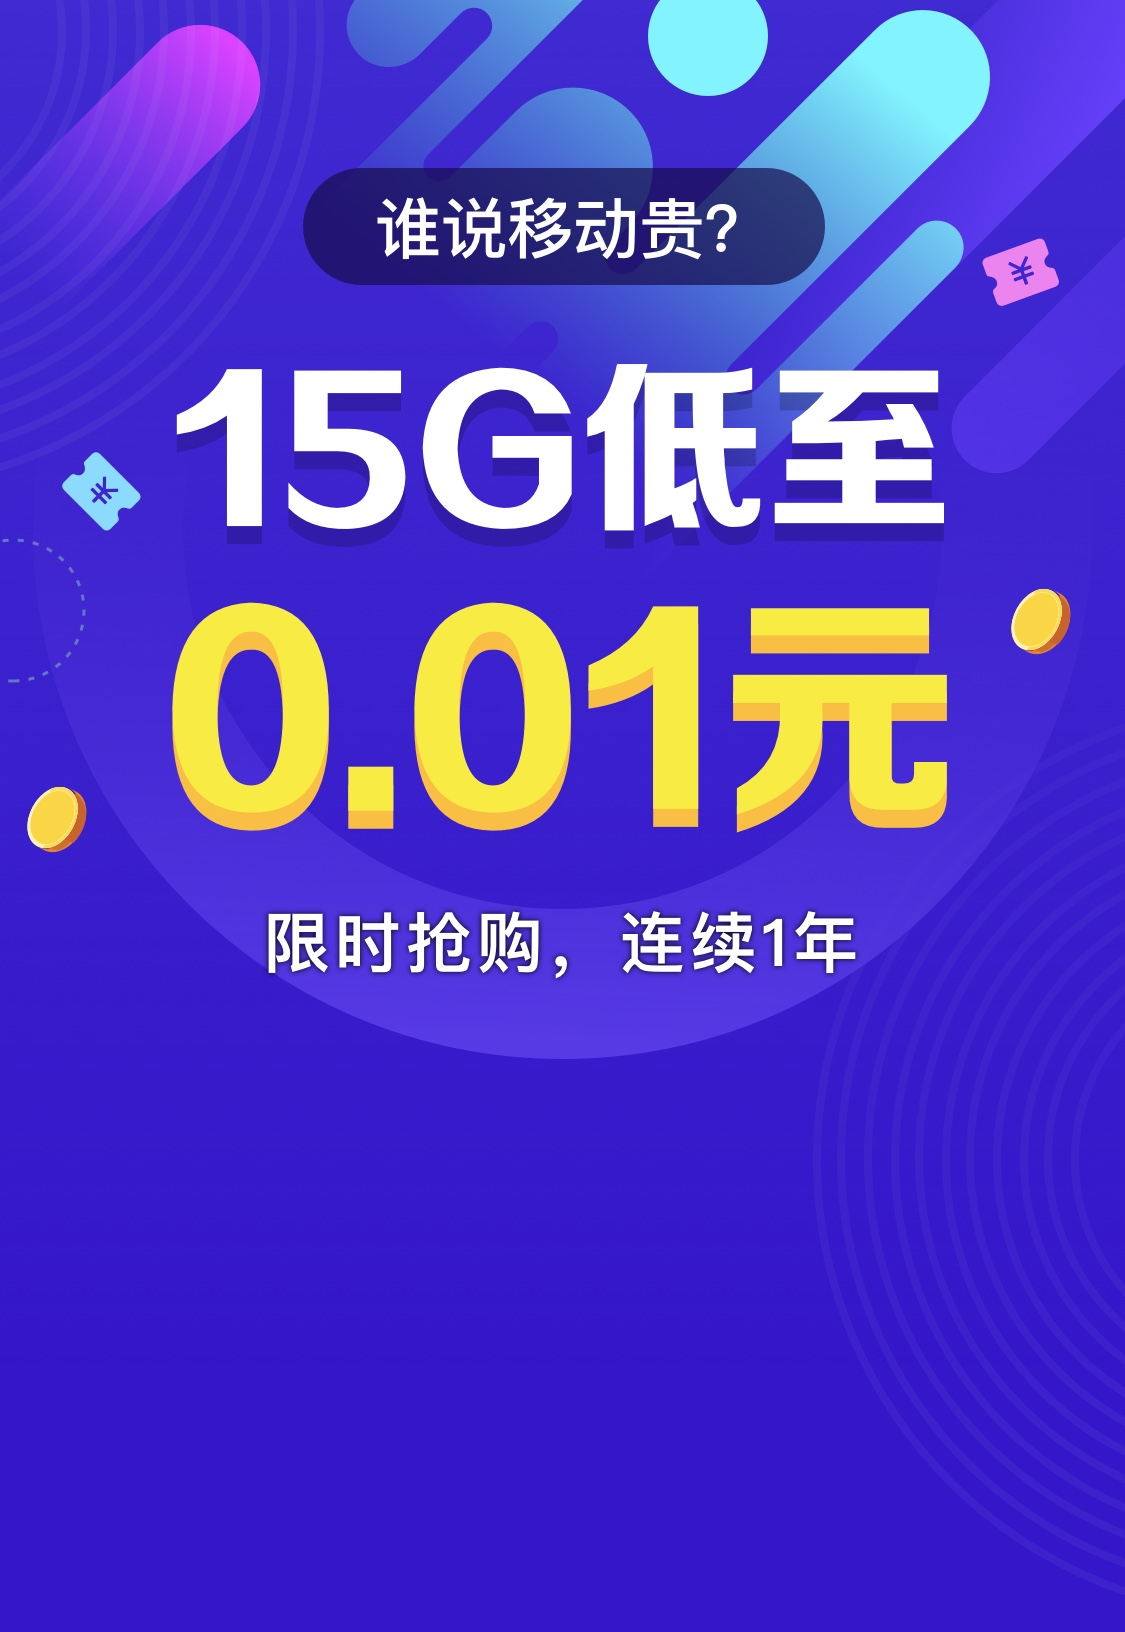
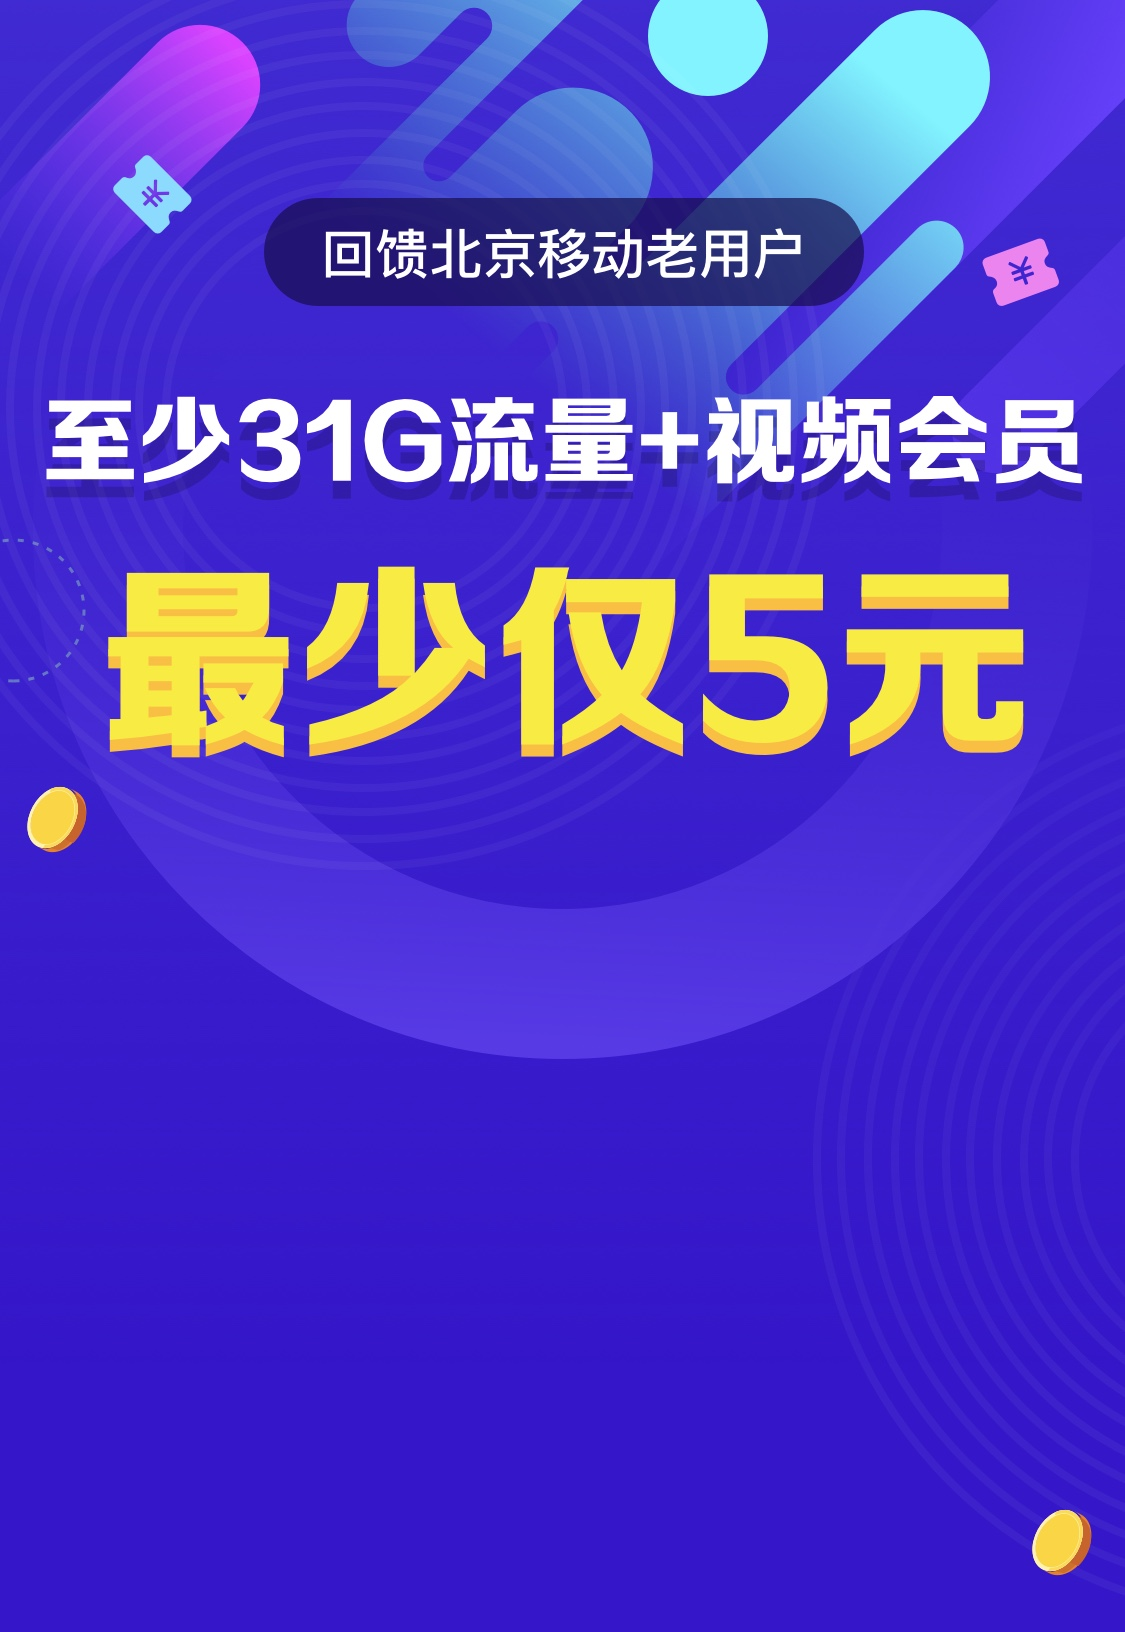
update bg

diff --git a/20200618/dist/css/index.min.css b/20200618/dist/css/index.min.css
@@ -1,1 +1,1 @@
-*{margin:0;padding:0}body{max-width:16rem;background-color:#3517c9;color:#fff;font-size:24px}#app,body{height:100%}#app{width:100%;margin:0 auto}#msg-puop{width:60%;height:2.13333rem;font-size:.59733rem;font-variant:tabular-nums;line-height:2.13333rem;text-align:center;position:fixed;top:0;left:0;right:0;bottom:0;margin:auto;z-index:1010;pointer-events:none;background-color:rgba(0,0,0,.5);border-radius:.17067rem;display:none}.top{width:100%;height:23.21067rem;background:url(../img/part1.jpg) no-repeat;background-size:100% auto}.top .form-warper{width:100%;padding-top:15.31733rem}.top .form-warper .form-item{width:13.61067rem;margin:.64rem auto;display:flex;align-items:center;justify-content:center}.top .form-warper .form-item input{width:100%;height:1.70667rem;border:0;border-radius:.128rem;background-color:#fff;font-size:.512rem;padding:.21333rem;outline:none}.top .form-warper .form-subitem{border-radius:.128rem;background-color:#fff}.top .form-warper .form-subitem .get-code{width:5.12rem;padding:0 .42667rem;font-size:.512rem;color:#4858dc;height:2.13329rem;line-height:2.13333rem;text-align:center}.top .form-warper .btn-sbumit{display:block;width:14.42133rem;height:2.432rem;margin:0 auto;border:0;background:none;outline:none}.bottom{width:100%;margin-top:2.56rem;background:url(../img/botmbg.png) no-repeat left 3.41333rem;background-size:100%}.bottom .head{width:13.61067rem;margin:0 auto;display:flex;align-items:center;justify-content:center}.bottom .head>:first-child,.bottom .head>:nth-child(3){width:1.77493rem;height:1.18187rem}.bottom .head>:nth-child(2){width:6.0416rem;text-align:center;font-size:.98133rem;color:#fff;letter-spacing:0;text-shadow:0 2px 2px rgba(0,0,0,.5)}.bottom .detial{width:13.824rem;margin:.85333rem auto;font-size:.512rem;background:#250d9b 100%;box-shadow:inset 0 0 3px 0 rgba(0,0,0,.5);border-radius:5px;color:#efefef}.bottom .detial ol{padding:.64rem}.bottom .detial ol li{padding:.21333rem;margin-left:.34133rem}.bottom .detial p{padding:0 .512rem .85333rem}.modal{width:100%;height:100%;position:fixed;top:0;left:0;z-index:99;background-color:rgba(0,0,0,.5);display:none}.modal-wrapper{position:absolute;right:0;left:0;top:0;bottom:0;margin:8.53333rem auto;width:13.824rem;height:4.26667rem}.modal .close{width:1.28rem;position:absolute;top:.21333rem;right:.21333rem}.modal .close-btn{width:inherit;height:1.28rem;background:url(../img/close-btn.svg) no-repeat;background-size:100%}.modal .close-line{width:1px;height:3.84rem;background-color:#fff;position:absolute;left:50%}.modal-head{height:1.70667rem;background-color:#3517c9;border-top-left-radius:.17067rem;border-top-right-radius:.17067rem}.modal-head .title{width:100%;display:inline-block;text-align:center;line-height:1.70667rem;font-size:.85333rem}.modal-body{min-height:7.68rem;background-color:#fff;border-bottom-left-radius:.17067rem;border-bottom-right-radius:.17067rem;color:#666;padding:.85333rem .85333rem .42667rem;line-height:.93867rem;font-size:.59733rem}.modal-body>p{padding:.21333rem}.modal-body>p>span{color:#444;font-weight:700}.modal-body .foot{margin-top:.42667rem;text-align:right}.modal-body .foot>button{border:0;outline:none;display:inline-block;width:3.41333rem;height:1.36533rem;color:#fff;background-color:#3517c9;font-size:.59733rem;border-radius:.17067rem}
+*{margin:0;padding:0}body{max-width:16rem;background-color:#3517c9;color:#fff;font-size:24px}#app,body{height:100%}#app{width:100%;margin:0 auto}#msg-puop{width:60%;height:2.13333rem;font-size:.59733rem;font-variant:tabular-nums;line-height:2.13333rem;text-align:center;position:fixed;top:0;left:0;right:0;bottom:0;margin:auto;z-index:1010;pointer-events:none;background-color:rgba(0,0,0,.5);border-radius:.17067rem;display:none}.top{width:100%;height:23.21067rem;background:url(../img/part1.jpg) no-repeat;background-size:100% auto}.top .form-warper{width:100%;padding-top:15.31733rem}.top .form-warper .form-item{width:13.61067rem;margin:.64rem auto;display:flex;align-items:center;justify-content:center}.top .form-warper .form-item input{width:100%;height:1.70667rem;border:0;border-radius:.128rem;background-color:#fff;font-size:.512rem;padding:.21333rem;outline:none}.top .form-warper .form-subitem{border-radius:.128rem;background-color:#fff}.top .form-warper .form-subitem .get-code{width:5.12rem;padding:0 .42667rem;font-size:.512rem;color:#4858dc;height:2.13329rem;line-height:2.13333rem;text-align:center}.top .form-warper .btn-sbumit{display:block;width:14.42133rem;height:2.432rem;margin:0 auto;border:0;background:none;outline:none}.bottom{width:100%;margin-top:2.56rem;background:url(../img/botmbg.png) no-repeat left 3.41333rem;background-size:100%}.bottom .head{width:13.61067rem;margin:0 auto;display:flex;align-items:center;justify-content:center}.bottom .head>:first-child,.bottom .head>:nth-child(3){width:1.77493rem;height:1.18187rem}.bottom .head>:nth-child(2){width:6.0416rem;text-align:center;font-size:.98133rem;color:#fff;letter-spacing:0;text-shadow:0 2px 2px rgba(0,0,0,.5)}.bottom .detial{width:13.824rem;margin:.85333rem auto;font-size:.512rem;background:#250d9b 100%;box-shadow:inset 0 0 3px 0 rgba(0,0,0,.5);border-radius:5px;color:#efefef}.bottom .detial ol{padding:.64rem}.bottom .detial ol li{padding:.21333rem;margin-left:.34133rem}.bottom .detial p{padding:0 .512rem .85333rem}.modal{width:100%;height:100%;position:fixed;top:0;left:0;z-index:99;background-color:rgba(0,0,0,.5);display:none}.modal-wrapper{position:absolute;right:0;left:0;top:0;bottom:0;margin:8.53333rem auto;width:13.824rem;height:4.26667rem}.modal .close{width:1.28rem;position:absolute;top:.21333rem;right:.21333rem}.modal .close-btn{width:inherit;height:1.28rem;background:url(../img/close-btn.svg) no-repeat;background-size:100%}.modal .close-line{width:1px;height:3.84rem;background-color:#fff;position:absolute;left:50%}.modal-head{height:1.70667rem;background-color:#3517c9;border-top-left-radius:.17067rem;border-top-right-radius:.17067rem}.modal-head .title{width:100%;display:inline-block;text-align:center;line-height:1.70667rem;font-size:.85333rem}.modal-body{min-height:7.68rem;background-color:#fff;border-bottom-left-radius:.17067rem;border-bottom-right-radius:.17067rem;color:#666;padding:.85333rem .85333rem .42667rem;line-height:.93867rem;font-size:.59733rem}.modal-body>p{padding:.21333rem}.modal-body>p>span{color:#444;font-weight:700}.modal-body .foot{margin-top:.42667rem;text-align:center}.modal-body .foot>button{border:0;outline:none;display:inline-block;width:3.41333rem;height:1.36533rem;color:#fff;background-color:#3517c9;font-size:.59733rem;border-radius:.17067rem}

diff --git a/20200618/dist/js/index.js b/20200618/dist/js/index.js
@@ -8,6 +8,7 @@ $(function() {
     var $modal = $(".modal"); // 弹层
     var $closeModal = $(".modal").find(".close"); // 关闭弹层按钮
     var $confirm = $("#confirm");
+    var codeResult = {X: 0, y: 0};
 
 
     var getQuery = function(variable) {
@@ -119,23 +120,20 @@ $(function() {
         type: "post",
         url: reqUrl + "/api/dq/bjph/sendCode",
         data: req,
-        dataType: "dataType",
-        success: function (res) {
+      }).done(function (res) {
           console.log("res", res);
           if (res.code === 200) {
             time.countDown(60);
-            var data = res.data;
-            $('#x').text(data.X + '元');
-            $("#y").text(data.Y + "元");
+            codeResult = res.data;
+            message.show(msgPuop, "验证码已下发");
           } else {
             message.show(msgPuop, res.msg);
           }
-        },
-        error: function (err) {
+        }).fail(function (err) {
           var res = JSON.parse(err.responseText);
+          console.log("err", res);
           message.show(msgPuop, res.msg);
-        },
-      });
+        });
     });
 
     // 校验输入
@@ -150,7 +148,10 @@ $(function() {
       ]);
 
       if (validator.check()) {
-        $modal.fadeIn(300);
+        $modal.fadeIn(300, function () {
+          $("#x").text((codeResult.X || 'x') + "元");
+          $("#y").text((codeResult.Y || 'y') + "元");
+        });
       }
     });
     // 提交数据
@@ -165,10 +166,10 @@ $(function() {
         type: "post",
         url: reqUrl + "/api/dq/bjph/saveOrders",
         data: req,
-        dataType: "dataType",
         success: function (res) {
           console.log("res", res);
-          message.show(msgPuop, res.msg);
+          var msg = res.code === 200 ? '订购成功！会员权益请在北京移动APP内领取' : res.msg;
+          message.show(msgPuop, msg);
         },
         error: function (err) {
           var res = JSON.parse(err.responseText);

diff --git a/20200618/src/css/index.scss b/20200618/src/css/index.scss
@@ -44,7 +44,7 @@ body {
     background-size: 100% auto;
     .form-warper {
         width : 100%;
-        padding-top: px2rem(359);        
+        padding-top: px2rem(290);        
         .form-item {
             width : px2rem(319);
             margin: px2rem(15) auto;
@@ -88,7 +88,7 @@ body {
 }
 .bottom {
     width: 100%;
-    margin-top: px2rem(60);
+    margin-top: px2rem(10);
     background: url('../img/botmbg.png') no-repeat left px2rem(80);
     background-size: 100%;
     .head {

diff --git a/20200618/src/css/index.css b/20200618/src/css/index.css
@@ -41,7 +41,7 @@ body {
 
 .top .form-warper {
   width: 100%;
-  padding-top: 15.31733rem; }
+  padding-top: 12.37333rem; }
 
 .top .form-warper .form-item {
   width: 13.61067rem;
@@ -84,7 +84,7 @@ body {
 
 .bottom {
   width: 100%;
-  margin-top: 2.56rem;
+  margin-top: 0.42667rem;
   background: url("../img/botmbg.png") no-repeat left 3.41333rem;
   background-size: 100%; }
 

diff --git a/20200618/dist/index.html b/20200618/dist/index.html
@@ -57,7 +57,7 @@
                 <p>活动持续有效期：<span>12个月</span></p>
                 <p>视频包括：腾讯、优酷、爱奇艺、芒果等</p>
 
-                <p class="foot"><button id="confirm">确定</button></p>
+                <p class="foot"><button id="confirm">立即办理</button></p>
             </div>
         </div>
     </div>

diff --git a/20200618/dist/css/index.scss b/20200618/dist/css/index.scss
@@ -208,7 +208,7 @@ body {
         }
         .foot {
             margin-top: px2rem(10);
-            text-align: right;
+            text-align: center;
             >button {
                 border:0;
                 outline: none;

diff --git a/20200618/dist/css/index.css b/20200618/dist/css/index.css
@@ -198,7 +198,7 @@ body {
 
 .modal-body .foot {
   margin-top: 0.42667rem;
-  text-align: right; }
+  text-align: center; }
 
 .modal-body .foot > button {
   border: 0;
